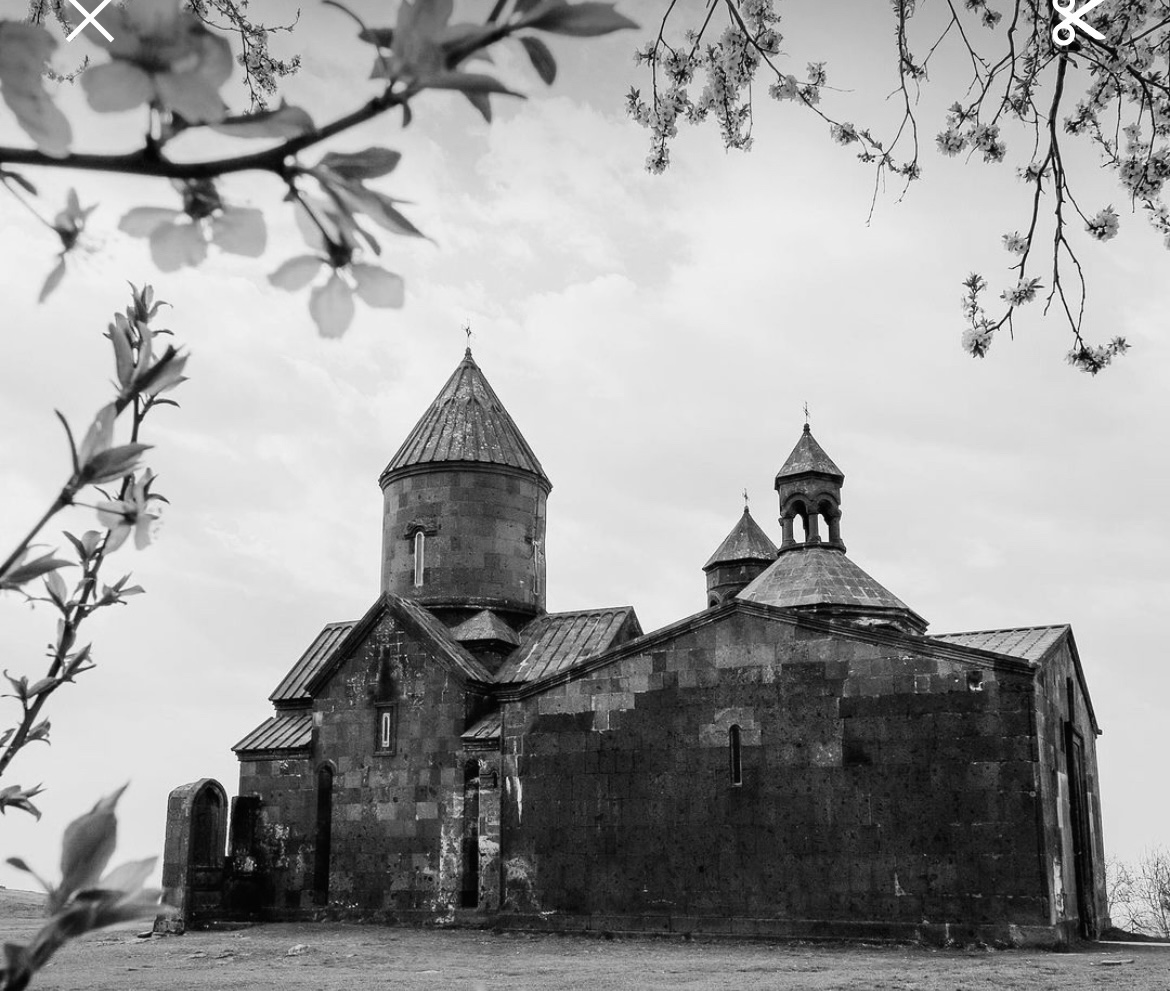
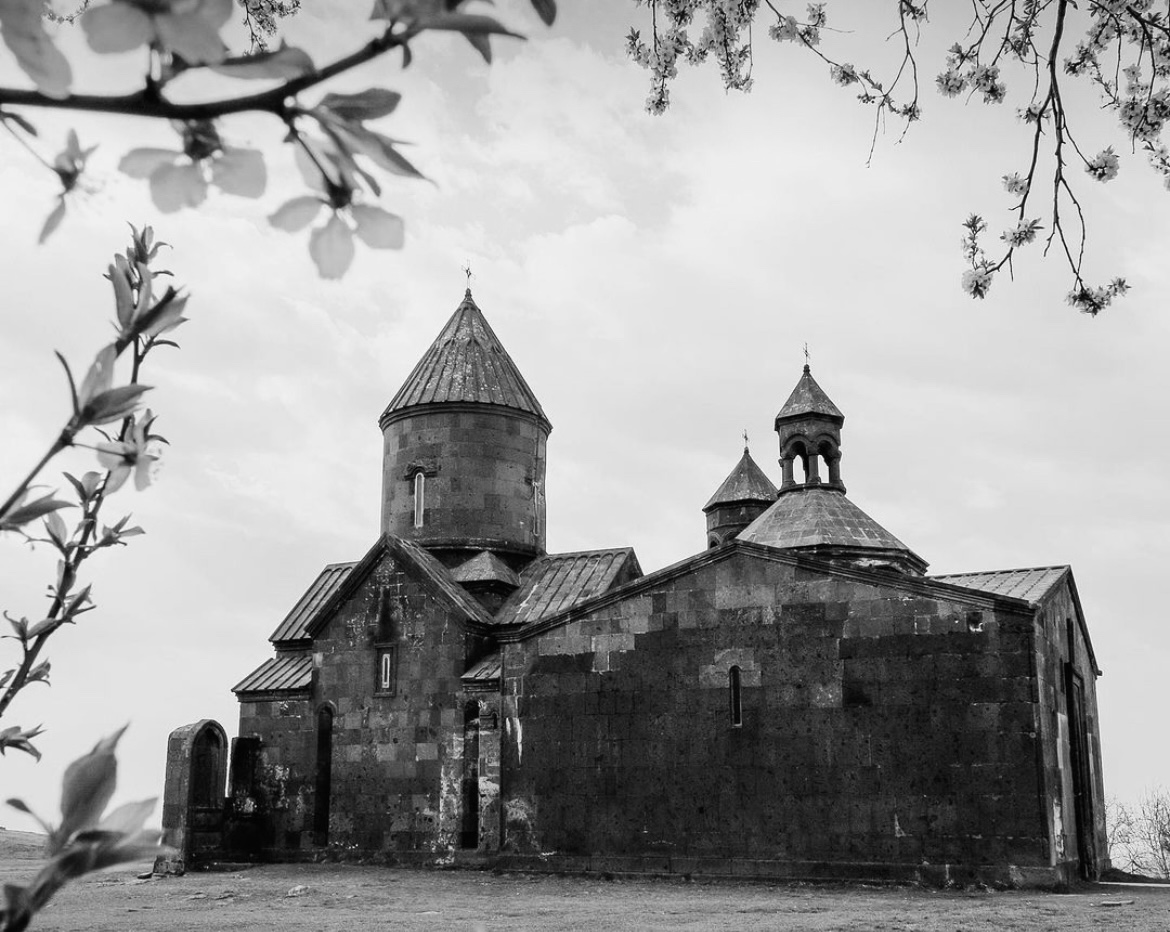
update photos

Changed region(s): [[0.0, 0.0, 1.0, 0.9957]]

diff --git a/src/App.tsx b/src/App.tsx
@@ -118,7 +118,7 @@ function App() {
         direction="center"
         distance={120}
         duration={1}>
-        <div className="content-center" style={{ marginTop: "50px" }}>
+        <div className="content-center wedding" style={{ marginTop: "50px" }}>
           <div>
             <div className="title">Մենք ամուսնանում ենք</div>
             <div className="content-between">
@@ -129,10 +129,7 @@ function App() {
         </div>
 
         <div className="content-center" style={{ position: "relative" }}>
-          <img
-            src="https://optim.tildacdn.one/tild6630-3034-4734-a530-303861363739/-/resize/852x/-/format/webp/Red_and_Beige_Elegan.png.webp"
-            alt=""
-          />
+          <img src="8.jpeg" alt="" />
           {isOpenSecond && <div className="names">Զալիբեկ + Հասմիկ</div>}
         </div>
 
@@ -166,7 +163,8 @@ function App() {
             </div>
 
             <div>
-              <Calendar />
+              {/* <Calendar /> */}
+              <img src="10.png" alt="" />
             </div>
 
             <div
@@ -268,11 +266,7 @@ function App() {
               </div>
             </section>
             <div style={{ position: "relative", top: "5px" }}>
-              <img
-                src="https://static.tildacdn.one/tild3232-3661-4530-b735-663966386265/5249042879094059081_.jpg"
-                alt=""
-                style={{ width: "100%" }}
-              />
+              <img src="9.jpg" alt="" style={{ width: "100%" }} />
               <div className="item-position">
                 <div style={{ position: "relative" }}>
                   <img
@@ -280,7 +274,7 @@ function App() {
                     alt=""
                   />
                   <div className="text-position">
-                    Սերը հեռավորություն չի ճանաչում...
+                    Արդ ինչը Աստված միացրեց, մարդը թող չբաժանի
                   </div>
                 </div>
               </div>
@@ -297,10 +291,6 @@ function App() {
                   <div>
                     Ձեզ հետ բերեք ՍԵՐ, ժպիտներ ու անսահման դրական էմոցիաներ,
                     ինչպես նաև հարմարավետ կոշիկներ՝ պարելու համար։
-                    <br />
-                    <br />
-                    Սիրելի աղջիկներ, թույլ տանք, որ այդ օրը սպիտակ զգեստով լինի
-                    միայն հարսնացուն 🤍
                   </div>
                 </div>
                 <div className="countdown-section">

diff --git a/src/App.css b/src/App.css
@@ -6,7 +6,6 @@ body{
 .title {
     font-size: 26px;
     text-align: center;
-    border-bottom: 1px solid #ccc;
     width: fit-content;
     padding-bottom: 5px;
 }
@@ -156,7 +155,7 @@ body{
     color: #000;
     width: 350px;
     text-align: center;
-    margin: 30px auto 10px;
+    margin: 70px auto 10px;
     font-weight: 600;
 }
 
@@ -230,13 +229,12 @@ body{
 
 .names{
   position: absolute;
-  top: 69%;
-  left: 40%;
-  transform: translate(-50%, -50%);
+  top: 106%;
+  left: 50%;
+  transform: translate(-39%, -50%);
   font-size: 25px;
-  color: white;
+  color: black;
   font-style: italic;
-  text-shadow: 2px 2px 4px rgba(0, 0, 0, 0.5);
   z-index: 2;
   width: 300px;
 }
@@ -255,22 +253,29 @@ body{
 
 .item-position{
 position: absolute;
-left: calc(50% - 150px);
-top: 50%;
+left: calc(50% - 140px);
+top: 59%;
 }
 .item-position img{
-  width: 300px;
-  height: 300px;
+  width: 280px;
+  height: 230px;
+}
+
+.wedding{
+  position: absolute;
+  width: 100%;
+  z-index: 99;
 }
 
 .text-position{
 position: absolute;
 left: 50%;
-top: 37%;
+top: 41%;
+width: 200px;
 text-align: center;
 transform: translateX(-50%);
 font-weight: bold;
-font-size: 18px;
+font-size: 16px;
 }
 
 footer{
